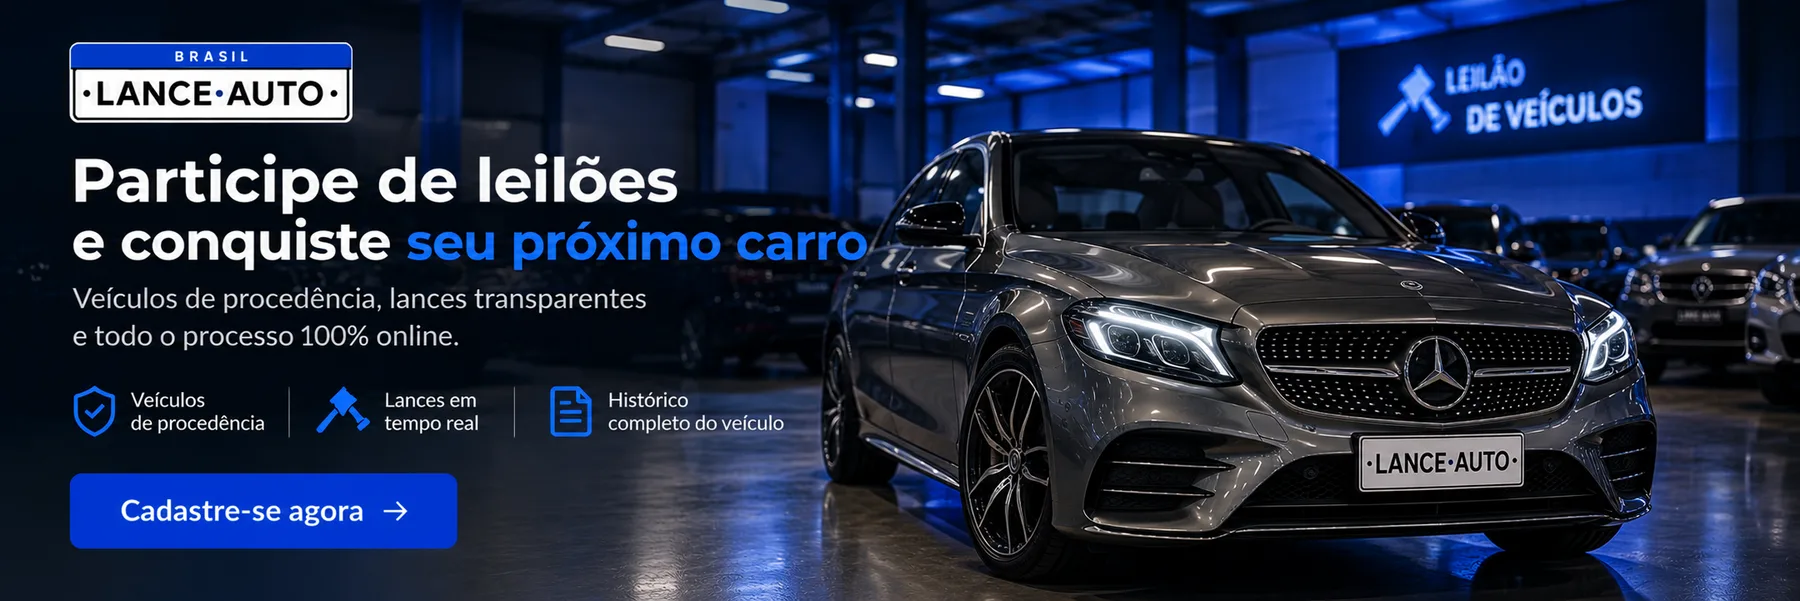
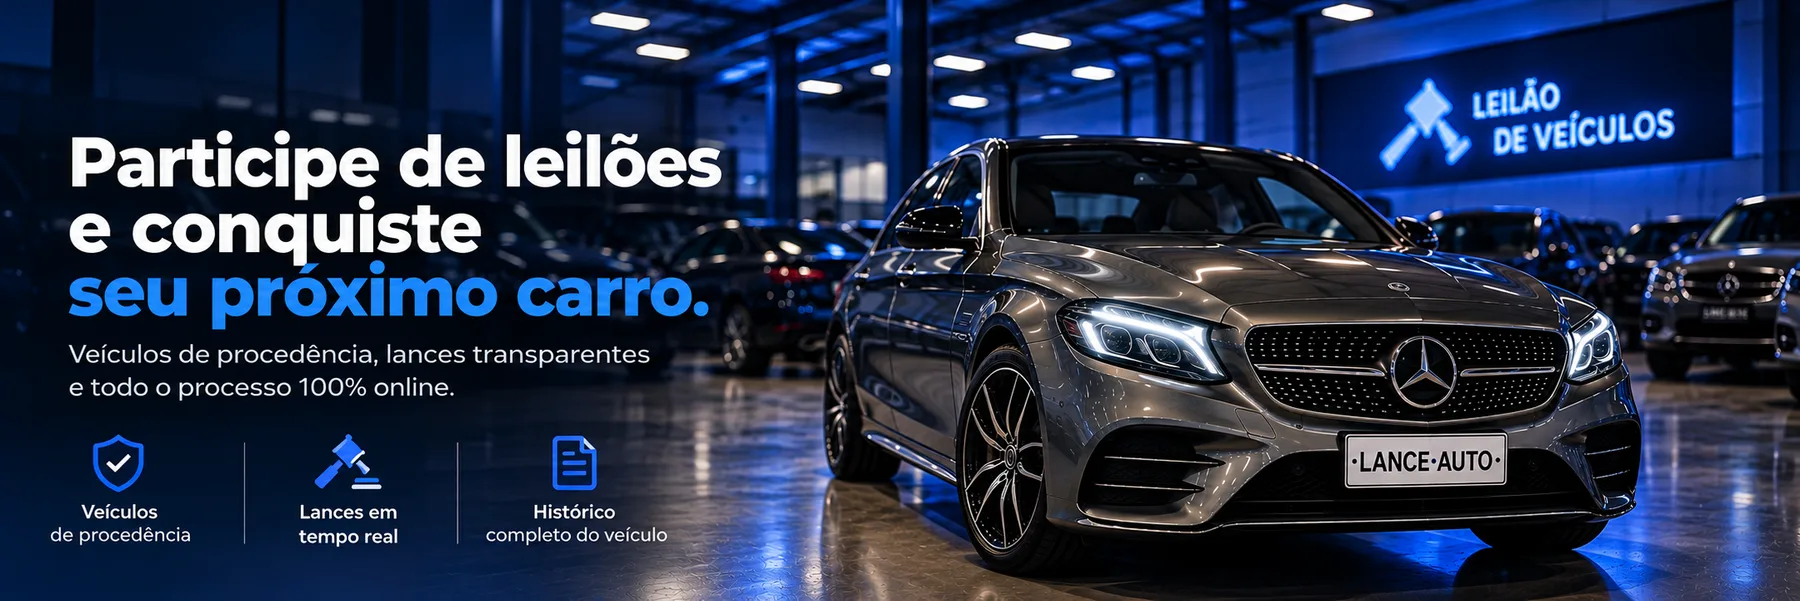
Troca a arte do primeiro slide do carrossel
Nova imagem (sem a placa LanceAuto no canto) e texto alternativo ajustado.

diff --git a/apps/web/src/components/carrossel-destaques.tsx b/apps/web/src/components/carrossel-destaques.tsx
@@ -14,7 +14,7 @@ export interface SlideCarrossel {
 export const SLIDES_VITRINE: SlideCarrossel[] = [
   {
     src: "/carrossel/leilao-destaque.webp",
-    alt: "LanceAuto. Participe de leilões e conquiste seu próximo carro. Veículos de procedência, lances transparentes e todo o processo 100% online, com histórico completo do veículo.",
+    alt: "Participe de leilões e conquiste seu próximo carro. Veículos de procedência, lances transparentes e todo o processo 100% online. Veículos de procedência, lances em tempo real e histórico completo do veículo.",
   },
   {
     src: "/carrossel/como-funciona.webp",
